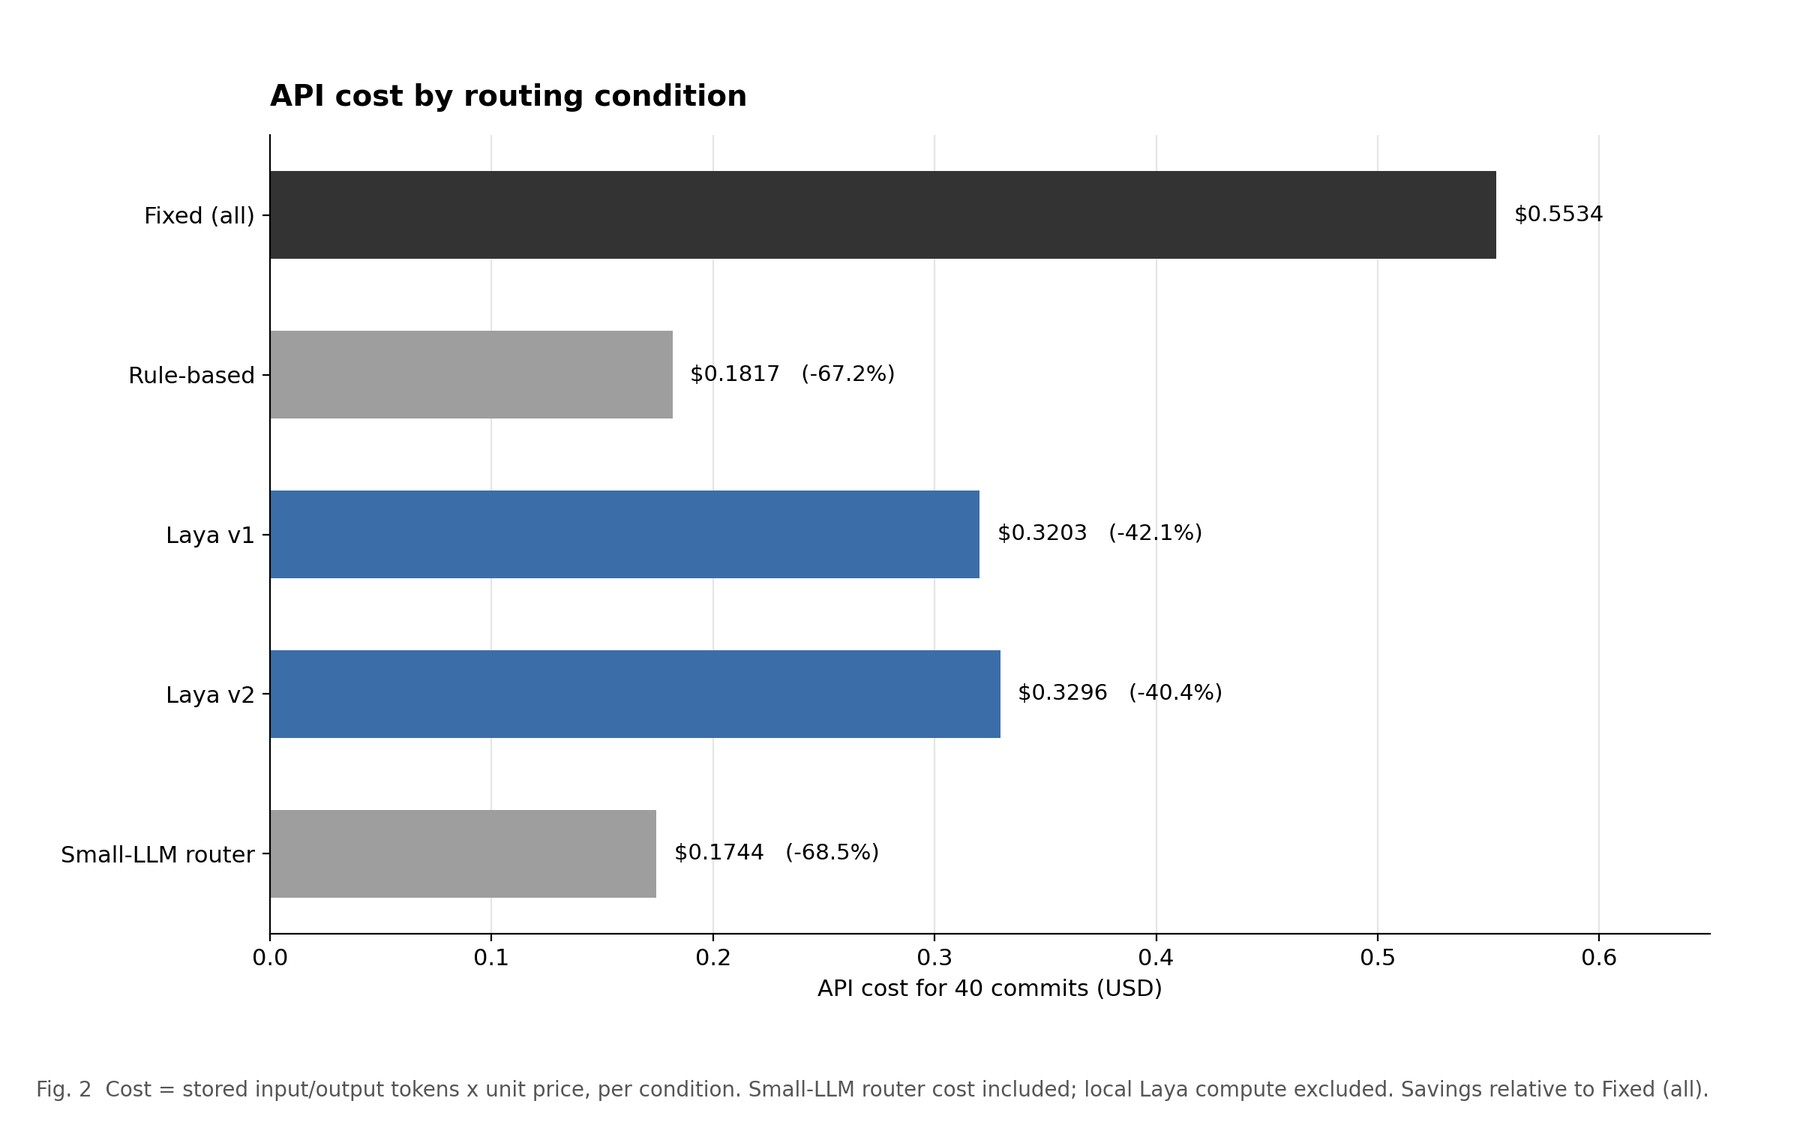
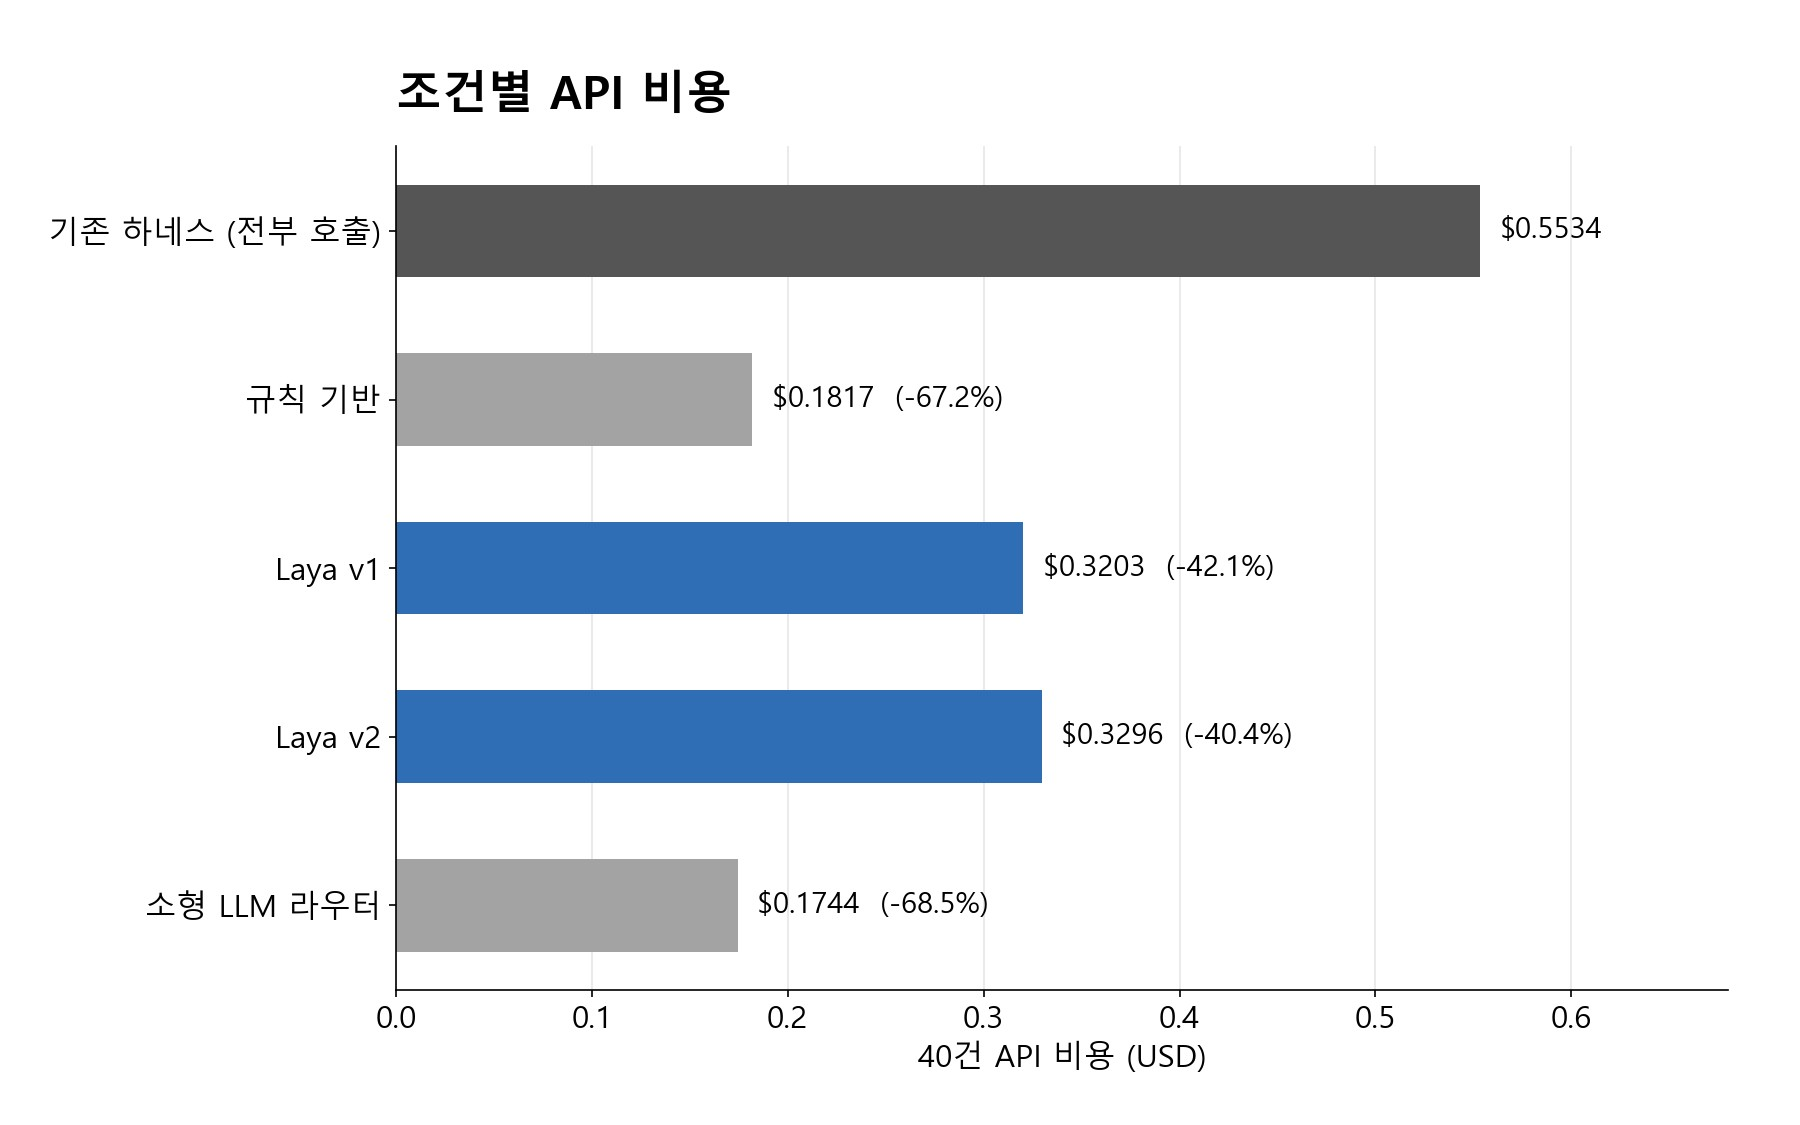
mdf:adaptive llm router project, new diagrams

diff --git a/src/app/templates/projects.html b/src/app/templates/projects.html
@@ -42,7 +42,7 @@
             <button type="button" data-target=".nexell_sec">Nexell</button>
             <button type="button" data-target=".raise_sec">RAISE Lab</button>
             <button type="button" data-target=".sarangmoa_sec"><span data-lang="ko">사랑모아</span><span data-lang="en">SarangMoa</span></button>
-            <button type="button" data-target=".laya_sec">Reviewer Routing</button>
+            <button type="button" data-target=".laya_sec">LLM Router</button>
         </nav>
         <div class="global-controls" aria-label="Display controls">
             <button type="button" class="control-btn lang-toggle">ENG</button>
@@ -104,8 +104,8 @@
       </section>
       <section class="project-nav-card laya_banner" data-target=".laya_sec">
           <span>09</span>
-          <h3>Adaptive Reviewer Routing</h3>
-          <p><span data-lang="ko">LLM 리뷰 비용 최적화</span><span data-lang="en">LLM review cost optimization</span></p>
+          <h3>Adaptive LLM Router</h3>
+          <p><span data-lang="ko">LLM 하네스 비용 최적화</span><span data-lang="en">LLM harness cost optimization</span></p>
       </section>
     </div>
 
@@ -1458,7 +1458,8 @@
 
 
     <div class="laya_sec">
-        <h1>Adaptive Reviewer Routing</h1>
+        <h1 data-lang="ko">Adaptive LLM Router : Laya 기반 LLM 하네스 비용 최적화</h1>
+        <h1 data-lang="en">Adaptive LLM Router : Cutting LLM Harness Cost with Laya</h1>
         <section class="about_laya">
             <div class="laya_slide">
                 <div id="carouselExampleIndicators_laya" class="carousel slide" data-bs-ride="true">
@@ -1470,13 +1471,13 @@
                       </div>
                       <div class="carousel-inner">
                         <div class="carousel-item active">
-                          <img src="/static/images/laya_design.jpg" class="d-block w-100" alt="Experiment design of the review harness">
+                          <img src="/static/images/laya_structure.jpg" class="d-block w-100" alt="LLM review harness with the Laya decision model">
                         </div>
                         <div class="carousel-item">
-                          <img src="/static/images/laya_cost.jpg" class="d-block w-100" alt="API cost by routing condition">
+                          <img src="/static/images/laya_setup.jpg" class="d-block w-100" alt="Experiment setup">
                         </div>
                         <div class="carousel-item">
-                          <img src="/static/images/laya_calls.jpg" class="d-block w-100" alt="Reviewer calls and latency by condition">
+                          <img src="/static/images/laya_cost.jpg" class="d-block w-100" alt="API cost by condition">
                         </div>
                         <div class="carousel-item">
                           <img src="/static/images/laya_table.jpg" class="d-block w-100" alt="Full results table">
@@ -1493,49 +1494,51 @@
                     </div>
             </div>
             <div class="laya_description">
-                <h3 data-lang="ko">Laya decision model을 결합해 LLM 코드 리뷰 하네스의 API 비용을 최적화한 실험 프로젝트입니다.</h3>
-                <h3 data-lang="en">An experiment that cuts the API cost of an LLM code review harness by adding the Laya decision model.</h3>
+                <h3 data-lang="ko">LLM 코드 리뷰 하네스에 Laya decision model을 라우터로 붙여, 필요한 검사만 호출했을 때 API 비용이 얼마나 줄어드는지 측정한 프로젝트입니다.</h3>
+                <h3 data-lang="en">I added the Laya decision model as a router in front of an LLM code review harness and measured how much API cost drops when only the needed checks are called.</h3>
 
                 <h4 data-lang="ko">배경</h4>
                 <h4 data-lang="en">Background</h4>
                 <ul class="point-list" data-lang="ko">
-                    <li>모든 커밋에 동일한 리뷰어(CA 일치 검토 · VA 보안 검토 · FA 형식 검토)와 고비용 모델을 호출하는 방식의 비용 부담.</li>
-                    <li>커밋 특성에 따라 필요한 검사만 선택하는 리뷰 하네스를 구성.</li>
+                    <li>기존 하네스는 커밋마다 일관성(CA)·보안(VA)·형식(FA) 세 가지 LLM 검사를 항상 고성능 모델로 전부 호출해 비용과 시간이 큼.</li>
+                    <li>하네스 앞단에 의사결정 단계를 두어 커밋별로 필요한 검사와 모델 크기만 고르도록 설계.</li>
                 </ul>
                 <ul class="point-list" data-lang="en">
-                    <li>Calling every reviewer (CA consistency, VA security, FA format) with an expensive model on every commit is costly.</li>
-                    <li>Built a review harness that picks only the checks each commit needs.</li>
+                    <li>The original harness always ran all three LLM checks (consistency CA, security VA, format FA) on a strong model for every commit, which was costly and slow.</li>
+                    <li>Added a decision step in front of the harness to pick only the checks and model size each commit needs.</li>
                 </ul>
 
                 <h4 data-lang="ko">구현</h4>
                 <h4 data-lang="en">Implementation</h4>
                 <ul class="point-list" data-lang="ko">
-                    <li><span class="highlight">Laya 의사결정 모델</span>을 리뷰 하네스에 통합해 보안·형식 검토의 필요 여부를 판단하고, 확신도 0.7 미만이면 검사를 실행하는 보수적 호출 규칙 구현.</li>
-                    <li>변경 줄 수 기반 모델 등급 선택 (5줄 이하 small / 6줄 이상 strong).</li>
-                    <li>공개 커밋 기반 40개 사례와 240개 리뷰 답안 캐시로 고정 호출 · 규칙 기반 · Laya 2종 · 작은 LLM 라우터 5개 조건 비교.</li>
-                    <li>비용 · 호출 수 · 토큰 · CA 정답률/F1 · 처리시간을 함께 계측하는 실험 파이프라인 구성.</li>
+                    <li><span class="highlight">Laya decision model</span>을 하네스의 라우터로 통합 — 로컬 CPU에서 보안·형식 검토 필요 여부를 판단해 라우터 자체의 API 비용은 0.</li>
+                    <li>확신도 0.7 미만이면 검사를 실행하는 보수적 규칙과, 변경 줄 수 기반 모델 선택(5줄 이하 small / 6줄 이상 strong).</li>
+                    <li>라우터 칸만 교체되는 구조로 설계해 기존 하네스 · 규칙 기반 · Laya 2종 · 소형 LLM 라우터 5개 조건을 같은 조건에서 비교.</li>
+                    <li>LLM 출력 비결정성에 대응해 리뷰 결과 240개와 라우터 판단을 캐시, 재실행 시 동일 결과 보장.</li>
+                    <li>공개 커밋 40건을 직접 라벨링해 정답률 · F1 · 보안 검토 누락으로 채점.</li>
                 </ul>
                 <ul class="point-list" data-lang="en">
-                    <li>Integrated the <span class="highlight">Laya decision model</span> to decide whether security and format reviews are needed, running the check whenever confidence is below 0.7.</li>
-                    <li>Picked the model tier by lines changed (≤5 small / ≥6 strong).</li>
-                    <li>Compared five strategies (fixed, rule-based, two Laya variants, small LLM router) on 40 public-commit cases with a shared cache of 240 review answers.</li>
-                    <li>Built an experiment pipeline tracking cost, calls, tokens, CA accuracy/F1, and latency together.</li>
+                    <li>Integrated the <span class="highlight">Laya decision model</span> as the harness router — it runs on local CPU to decide if security/format checks are needed, so the router itself adds no API cost.</li>
+                    <li>Conservative rule (run the check when confidence is below 0.7) and model tier by lines changed (≤5 small / ≥6 strong).</li>
+                    <li>Designed a swappable router slot to compare five conditions under the same setup: original harness, rule-based, two Laya variants, small LLM router.</li>
+                    <li>Cached 240 review results and router decisions to handle LLM non-determinism, so reruns give identical results.</li>
+                    <li>Hand-labeled 40 public commits to score accuracy, F1, and missed security reviews.</li>
                 </ul>
 
                 <h4 data-lang="ko">결과</h4>
                 <h4 data-lang="en">Results</h4>
                 <ul class="point-list" data-lang="ko">
-                    <li>고정 호출 기준선 대비 <span class="highlight">API 비용 40.4~42.1% 절감</span>, 리뷰어 호출 14.2~18.3% 감소 (v1 기준 $0.5534 → $0.3203, 120회 → 98회).</li>
-                    <li>보안 검토 대상 9건 모두에 보안 리뷰어 배정 유지.</li>
-                    <li>CA 정답률 97.5% → 92.5%, 처리시간 증가 등 비용과 판정 성능 사이의 교환관계를 정량화.</li>
+                    <li>기존 하네스 대비 <span class="highlight">API 비용 40.4~42.1% 절감</span>, 리뷰어 호출 14.2~18.3% 감소 (v1 기준 $0.5534 → $0.3203).</li>
+                    <li>보안 검토 대상 9건은 모두 보안 검토 배정 유지.</li>
+                    <li>CA 정답률 97.5% → 92.5%, 처리 시간 증가 등 비용과 성능 사이의 교환관계를 정량화.</li>
                 </ul>
                 <ul class="point-list" data-lang="en">
-                    <li><span class="highlight">Cut API cost by 40.4–42.1%</span> and reviewer calls by 14.2–18.3% vs. the fixed baseline (v1: $0.5534 → $0.3203, 120 → 98 calls).</li>
-                    <li>Kept a security reviewer assigned to all 9 security-flagged cases.</li>
+                    <li><span class="highlight">Cut API cost by 40.4–42.1%</span> and reviewer calls by 14.2–18.3% vs. the original harness (v1: $0.5534 → $0.3203).</li>
+                    <li>All 9 security-relevant commits still got a security review.</li>
                     <li>Quantified the trade-off: CA accuracy 97.5% → 92.5% and longer processing time.</li>
                 </ul>
 
-                <p class="project-meta"><span data-lang="ko">설계 참고: CodeAgent (EMNLP 2024) · 데이터: 공개 커밋 (Zenodo) · Python, LLM API</span><span data-lang="en">Design reference: CodeAgent (EMNLP 2024) · Data: public commits (Zenodo) · Python, LLM API</span></p>
+                <p class="project-meta">Python, Claude API, Laya</p>
             </div>
         </section>
     </div>

diff --git a/src/app/static/css/projects.css b/src/app/static/css/projects.css
@@ -172,7 +172,7 @@ a {
 }
 
 .laya_banner {
-    background-image: url(../images/laya_design.jpg);
+    background-image: url(../images/laya_structure.jpg);
 }
 
 .tosel_lab_platform_sec,
